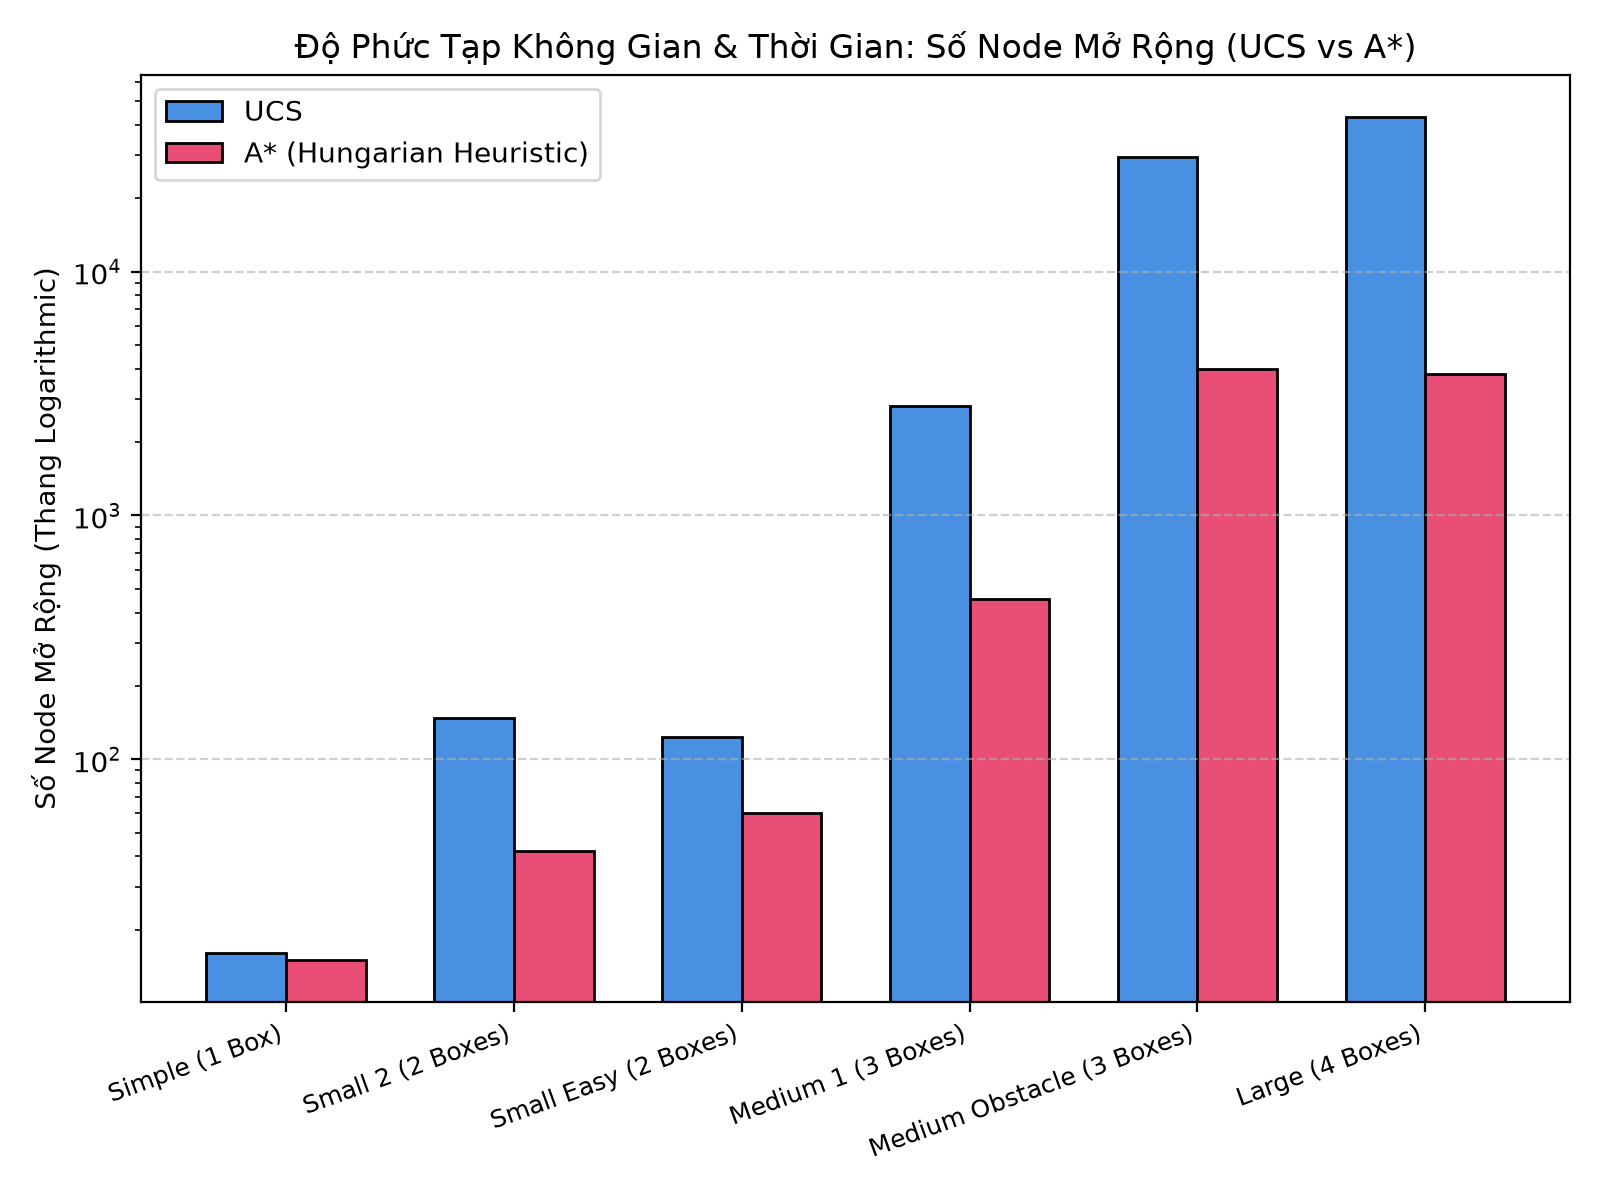
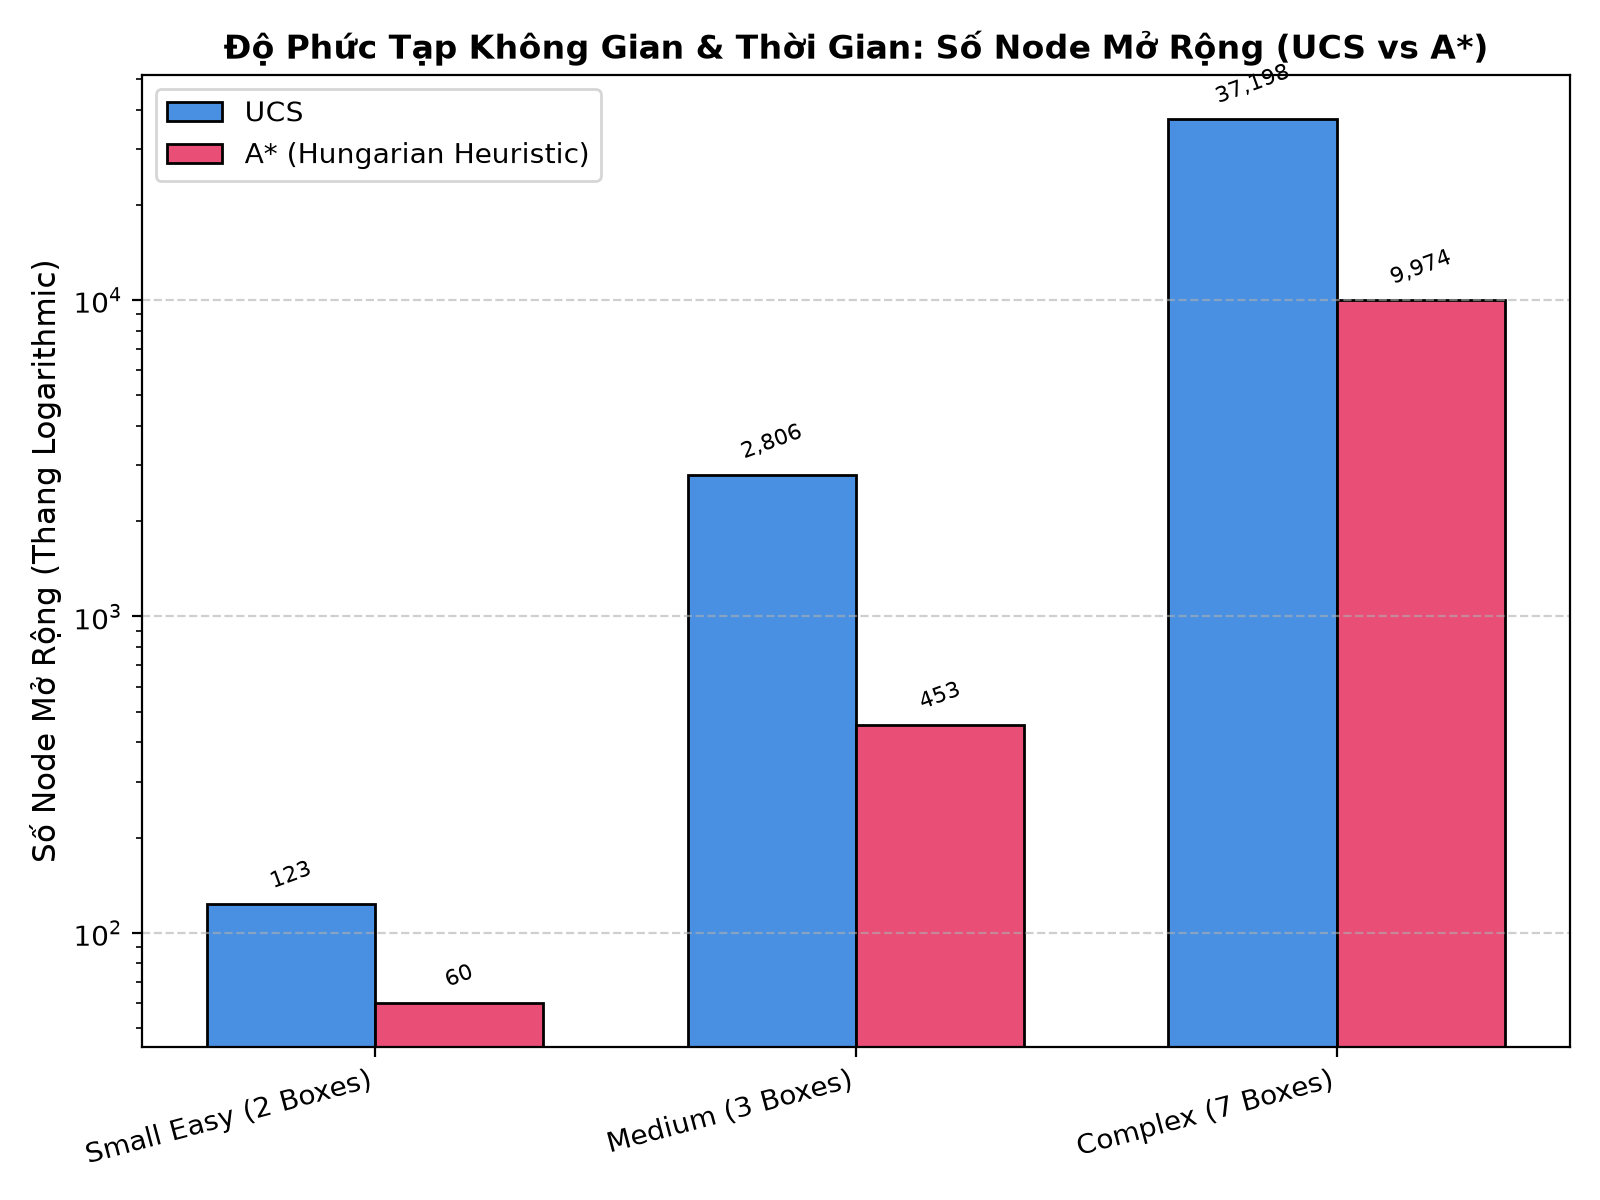
feat: add small easy and medium maps, update task3 benchmark plots and solvers

diff --git a/task3/benchmark.py b/task3/benchmark.py
@@ -13,7 +13,10 @@ if sys.platform == "win32":
         pass
 
 
-sys.path.insert(0, os.path.abspath(os.path.join(os.path.dirname(__file__), "..")))
+CURRENT_DIR = os.path.dirname(os.path.abspath(__file__))
+PROJECT_ROOT = os.path.abspath(os.path.join(CURRENT_DIR, ".."))
+if PROJECT_ROOT not in sys.path:
+    sys.path.insert(0, PROJECT_ROOT)
 
 import matplotlib.pyplot as plt
 import numpy as np
@@ -22,8 +25,22 @@ from core.board import Board
 from task2.solver import SearchSolver
 
 
+def resolve_map_path(file_path: str) -> str:
+    candidates = [
+        file_path,
+        os.path.join(PROJECT_ROOT, file_path),
+        os.path.join(CURRENT_DIR, "..", file_path),
+        os.path.join(PROJECT_ROOT, "maps", os.path.basename(file_path)),
+    ]
+    for c in candidates:
+        if os.path.isfile(c):
+            return os.path.abspath(c)
+    return file_path
+
+
 def run_single_experiment(map_path: str, algorithm: str, timeout: float = 30.0) -> Dict[str, Any]:
-    board = Board.from_file(map_path)
+    actual_path = resolve_map_path(map_path)
+    board = Board.from_file(actual_path)
     solver = SearchSolver(board, algorithm=algorithm, prune_deadlocks=True)
 
     tracemalloc.start()
@@ -47,12 +64,9 @@ def run_single_experiment(map_path: str, algorithm: str, timeout: float = 30.0) 
 
 def run_full_benchmark():
     test_cases = [
-        {"name": "Simple (1 Box)", "file": "maps/example_simple.txt", "boxes": 1},
-        {"name": "Small 2 (2 Boxes)", "file": "maps/map_small_3.txt", "boxes": 2},
         {"name": "Small Easy (2 Boxes)", "file": "maps/map_easy.txt", "boxes": 2},
-        {"name": "Medium 1 (3 Boxes)", "file": "maps/map_medium_1.txt", "boxes": 3},
-        {"name": "Medium Obstacle (3 Boxes)", "file": "maps/map_medium_2.txt", "boxes": 3},
-        {"name": "Large (4 Boxes)", "file": "maps/map_large_1.txt", "boxes": 4},
+        {"name": "Medium (3 Boxes)", "file": "maps/map_medium.txt", "boxes": 3},
+        {"name": "Complex (7 Boxes)", "file": "maps/example_map.txt", "boxes": 7},
     ]
 
     print("=" * 90)
@@ -130,7 +144,7 @@ def print_markdown_table(results: List[Dict[str, Any]]):
 
 
 def generate_benchmark_plots(results: List[Dict[str, Any]]):
-    plots_dir = os.path.join(os.path.dirname(__file__), "plots")
+    plots_dir = os.path.join(CURRENT_DIR, "plots")
     os.makedirs(plots_dir, exist_ok=True)
 
     labels = [r["name"] for r in results]
@@ -146,46 +160,81 @@ def generate_benchmark_plots(results: List[Dict[str, Any]]):
     x = np.arange(len(labels))
     width = 0.35
 
+    # 1. Biểu đồ số lượng nút mở rộng (Nodes Expanded) - Thang Logarithmic
     fig, ax = plt.subplots(figsize=(8, 6))
     rects1 = ax.bar(x - width/2, ucs_expanded, width, label='UCS', color='#4A90E2', edgecolor='black')
     rects2 = ax.bar(x + width/2, astar_expanded, width, label='A* (Hungarian Heuristic)', color='#E94E77', edgecolor='black')
     ax.set_yscale('log')
-    ax.set_ylabel('Số Node Mở Rộng (Thang Logarithmic)')
-    ax.set_title('Độ Phức Tạp Không Gian & Thời Gian: Số Node Mở Rộng (UCS vs A*)')
+    ax.set_ylabel('Số Node Mở Rộng (Thang Logarithmic)', fontsize=11)
+    ax.set_title('Độ Phức Tạp Không Gian & Thời Gian: Số Node Mở Rộng (UCS vs A*)', fontsize=12, fontweight='bold')
     ax.set_xticks(x)
-    ax.set_xticklabels(labels, rotation=20, ha='right', fontsize=9)
-    ax.legend()
+    ax.set_xticklabels(labels, rotation=15, ha='right', fontsize=10)
+    ax.legend(fontsize=10)
     ax.grid(axis='y', linestyle='--', alpha=0.6)
+
+    for rect in rects1:
+        h = rect.get_height()
+        ax.annotate(f'{int(h):,}', xy=(rect.get_x() + rect.get_width() / 2, h),
+                    xytext=(0, 4), textcoords="offset points", ha='center', va='bottom', fontsize=8, rotation=20)
+    for rect in rects2:
+        h = rect.get_height()
+        ax.annotate(f'{int(h):,}', xy=(rect.get_x() + rect.get_width() / 2, h),
+                    xytext=(0, 4), textcoords="offset points", ha='center', va='bottom', fontsize=8, rotation=20)
+
     fig.tight_layout()
     plot_path1 = os.path.join(plots_dir, "nodes_comparison.png")
     fig.savefig(plot_path1, dpi=200)
     plt.close(fig)
     print(f"\n[+] Đã lưu biểu đồ: {plot_path1}")
 
+    # 2. Biểu đồ thời gian thực thi (Execution Time)
     fig, ax = plt.subplots(figsize=(8, 6))
-    ax.bar(x - width/2, ucs_time, width, label='UCS', color='#4A90E2', edgecolor='black')
-    ax.bar(x + width/2, astar_time, width, label='A* (Hungarian Heuristic)', color='#E94E77', edgecolor='black')
-    ax.set_ylabel('Thời Gian Thực Thi (Giây)')
-    ax.set_title('Độ Phức Tạp Thời Gian: Thời Gian CPU (UCS vs A*)')
+    rects1 = ax.bar(x - width/2, ucs_time, width, label='UCS', color='#4A90E2', edgecolor='black')
+    rects2 = ax.bar(x + width/2, astar_time, width, label='A* (Hungarian Heuristic)', color='#E94E77', edgecolor='black')
+    ax.set_ylabel('Thời Gian Thực Thi (Giây)', fontsize=11)
+    ax.set_title('Độ Phức Tạp Thời Gian: Thời Gian CPU (UCS vs A*)', fontsize=12, fontweight='bold')
     ax.set_xticks(x)
-    ax.set_xticklabels(labels, rotation=20, ha='right', fontsize=9)
-    ax.legend()
+    ax.set_xticklabels(labels, rotation=15, ha='right', fontsize=10)
+    ax.legend(fontsize=10)
     ax.grid(axis='y', linestyle='--', alpha=0.6)
+
+    for rect in rects1:
+        h = rect.get_height()
+        ax.annotate(f'{h:.3f}s', xy=(rect.get_x() + rect.get_width() / 2, h),
+                    xytext=(0, 3), textcoords="offset points", ha='center', va='bottom', fontsize=8)
+    for rect in rects2:
+        h = rect.get_height()
+        ax.annotate(f'{h:.3f}s', xy=(rect.get_x() + rect.get_width() / 2, h),
+                    xytext=(0, 3), textcoords="offset points", ha='center', va='bottom', fontsize=8)
+
     fig.tight_layout()
     plot_path2 = os.path.join(plots_dir, "time_comparison.png")
     fig.savefig(plot_path2, dpi=200)
     plt.close(fig)
     print(f"[+] Đã lưu biểu đồ: {plot_path2}")
 
+    # 3. Biểu đồ bộ nhớ RAM tiêu thụ (Peak RAM)
     fig, ax = plt.subplots(figsize=(8, 6))
-    ax.bar(x - width/2, ucs_mem, width, label='UCS', color='#4A90E2', edgecolor='black')
-    ax.bar(x + width/2, astar_mem, width, label='A* (Hungarian Heuristic)', color='#E94E77', edgecolor='black')
-    ax.set_ylabel('Bộ Nhớ RAM Đỉnh (KB)')
-    ax.set_title('Độ Phức Tạp Không Gian: Bộ Nhớ RAM Đỉnh (UCS vs A*)')
+    rects1 = ax.bar(x - width/2, ucs_mem, width, label='UCS', color='#4A90E2', edgecolor='black')
+    rects2 = ax.bar(x + width/2, astar_mem, width, label='A* (Hungarian Heuristic)', color='#E94E77', edgecolor='black')
+    ax.set_ylabel('Bộ Nhớ RAM Đỉnh (KB)', fontsize=11)
+    ax.set_title('Độ Phức Tạp Không Gian: Bộ Nhớ RAM Đỉnh (UCS vs A*)', fontsize=12, fontweight='bold')
     ax.set_xticks(x)
-    ax.set_xticklabels(labels, rotation=20, ha='right', fontsize=9)
-    ax.legend()
+    ax.set_xticklabels(labels, rotation=15, ha='right', fontsize=10)
+    ax.legend(fontsize=10)
     ax.grid(axis='y', linestyle='--', alpha=0.6)
+
+    for rect in rects1:
+        h = rect.get_height()
+        txt = f'{h/1024:.1f}MB' if h >= 1024 else f'{h:.0f}KB'
+        ax.annotate(txt, xy=(rect.get_x() + rect.get_width() / 2, h),
+                    xytext=(0, 3), textcoords="offset points", ha='center', va='bottom', fontsize=8)
+    for rect in rects2:
+        h = rect.get_height()
+        txt = f'{h/1024:.1f}MB' if h >= 1024 else f'{h:.0f}KB'
+        ax.annotate(txt, xy=(rect.get_x() + rect.get_width() / 2, h),
+                    xytext=(0, 3), textcoords="offset points", ha='center', va='bottom', fontsize=8)
+
     fig.tight_layout()
     plot_path3 = os.path.join(plots_dir, "memory_comparison.png")
     fig.savefig(plot_path3, dpi=200)

diff --git a/task5/gui_single.py b/task5/gui_single.py
@@ -36,7 +36,7 @@ def resolve_map_path(map_name_or_path: str) -> str:
 class SinglePlayerGUI:
     """Giao dien do hoa Pygame cho tro choi Sokoban che do mot nguoi."""
 
-    def __init__(self, map_path: str = "maps/example_simple.txt", default_algo: str = "astar"):
+    def __init__(self, map_path: str = "maps/map_easy.txt", default_algo: str = "astar"):
         pygame.init()
         pygame.display.set_caption("Sokoban AI - Single Player (UCS & A*)")
 
@@ -219,7 +219,7 @@ class SinglePlayerGUI:
 
 
 if __name__ == "__main__":
-    map_target = "maps/example_simple.txt"
+    map_target = "maps/example_map.txt"
     algo_target = "astar"
 
     if len(sys.argv) > 1:

diff --git a/task2/run_task2.py b/task2/run_task2.py
@@ -59,6 +59,6 @@ def test_map_solving(map_path: str, timeout: float = 30.0):
 
 
 if __name__ == "__main__":
-    test_map_solving("maps/example_simple.txt")
-
     test_map_solving("maps/map_easy.txt")
+
+    test_map_solving("maps/map_medium.txt")

diff --git a/README.md b/README.md
@@ -74,9 +74,9 @@ Mở terminal tại thư mục gốc của dự án để thực thi các task c
 * **Chạy Task 5 (Giao diện đồ họa đơn người):**
 
   ```
-  python task5/gui_single.py maps/example_simple.txt astar
+  python task5/gui_single.py maps/example_map.txt astar
   # Hoặc sử dụng UCS:
-  python task5/gui_single.py maps/example_simple.txt ucs
+  python task5/gui_single.py maps/example_map.txt ucs
   
   ```
 
